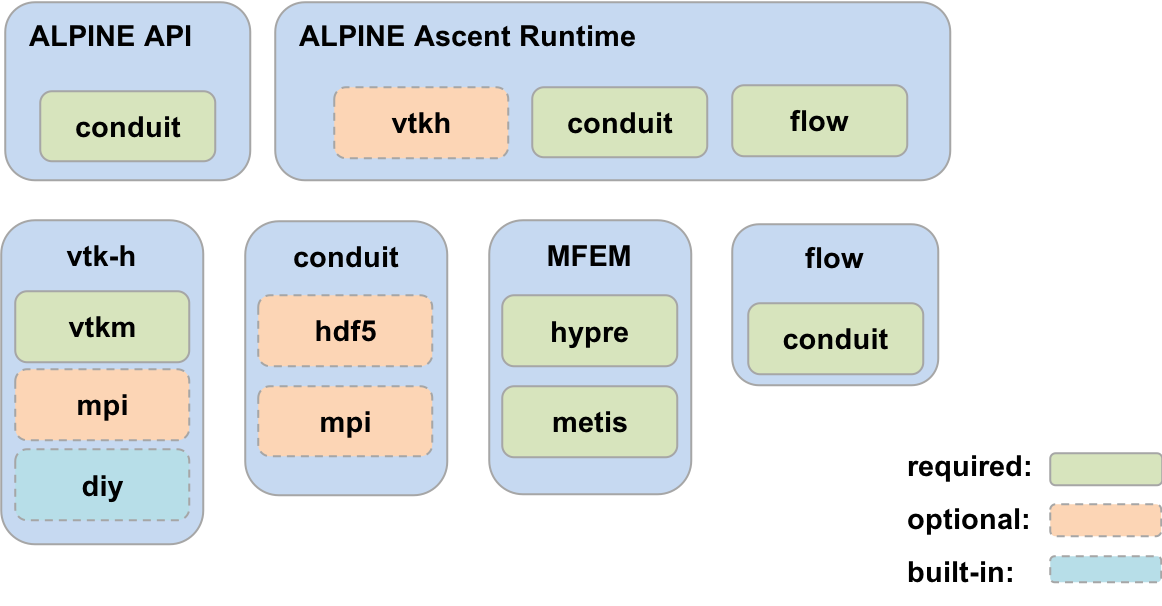
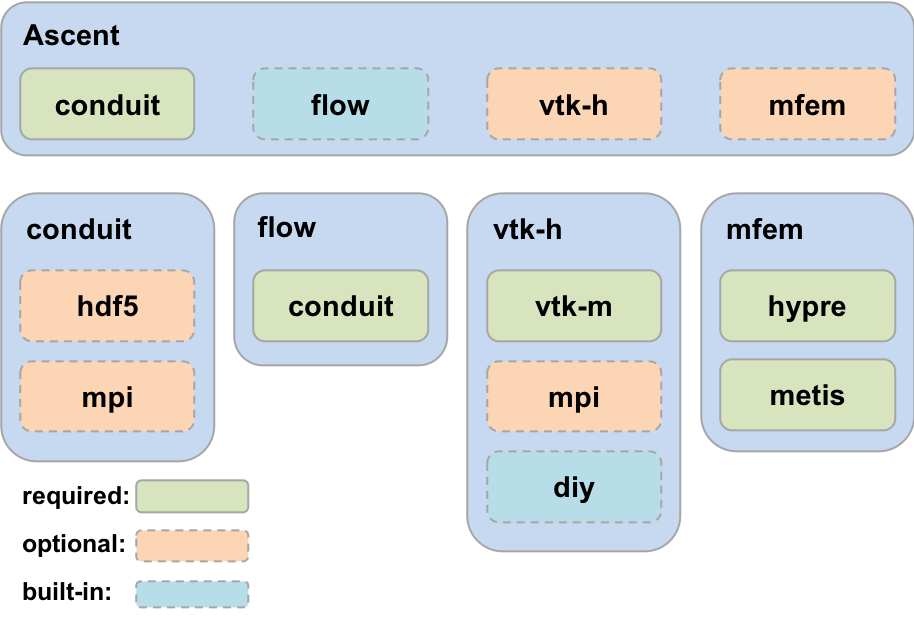
update ascent deps diagram

diff --git a/src/docs/sphinx/Overview.rst b/src/docs/sphinx/Overview.rst
@@ -87,20 +87,20 @@ The Ascent sytem architecture is composed of several components:
 System Diagram
 --------------
 ..  image:: images/AscentSystemDiagram.png
-    :height: 600px
+    :width: 85%
     :align: center
 
 Dependencies
 ------------
-  This section describes some of Ascents key dependencies.
+  This section describes Ascent's key dependencies.
 
 ..  image:: images/AscentDependencies.png
-    :height: 600px
+    :width: 85%
     :align: center
 
 Conduit (Required)
 """"""""""""""""""
-  Conduit is an open source project from Lawrence Livermore National Laboratory that provides an intuitive model for describing hierarchical scientific data in C++, C, Fortran, and Python. It is used for data coupling between packages in-core, serialization, and I/O tasks.
+  `Conduit <http://software.llnl.gov/conduit/>`_ is an open source project from Lawrence Livermore National Laboratory that provides an intuitive model for describing hierarchical scientific data in C++, C, Fortran, and Python. It is used for data coupling between packages in-core, serialization, and I/O tasks.
   Ascent leverages Conduit as its from facing API, since it can be used to describe simulation data in multiple programming languages.
 
 VTK-h (Optional but recommended)

diff --git a/src/docs/sphinx/BuildingAscent.rst b/src/docs/sphinx/BuildingAscent.rst
@@ -86,7 +86,7 @@ Build Dependencies
 ------------------
 
 ..  image:: images/AscentDependencies.png
-    :height: 600px
+    :width: 85%
     :align: center
 
 Ascent
